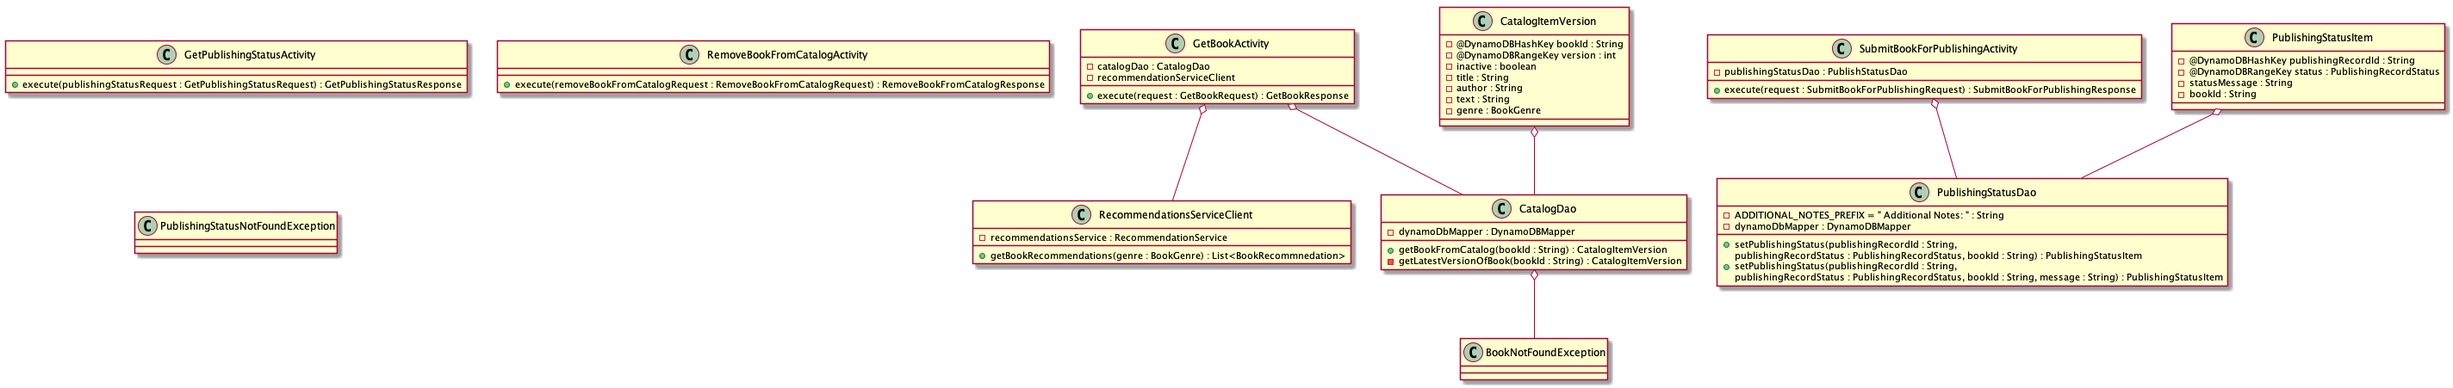
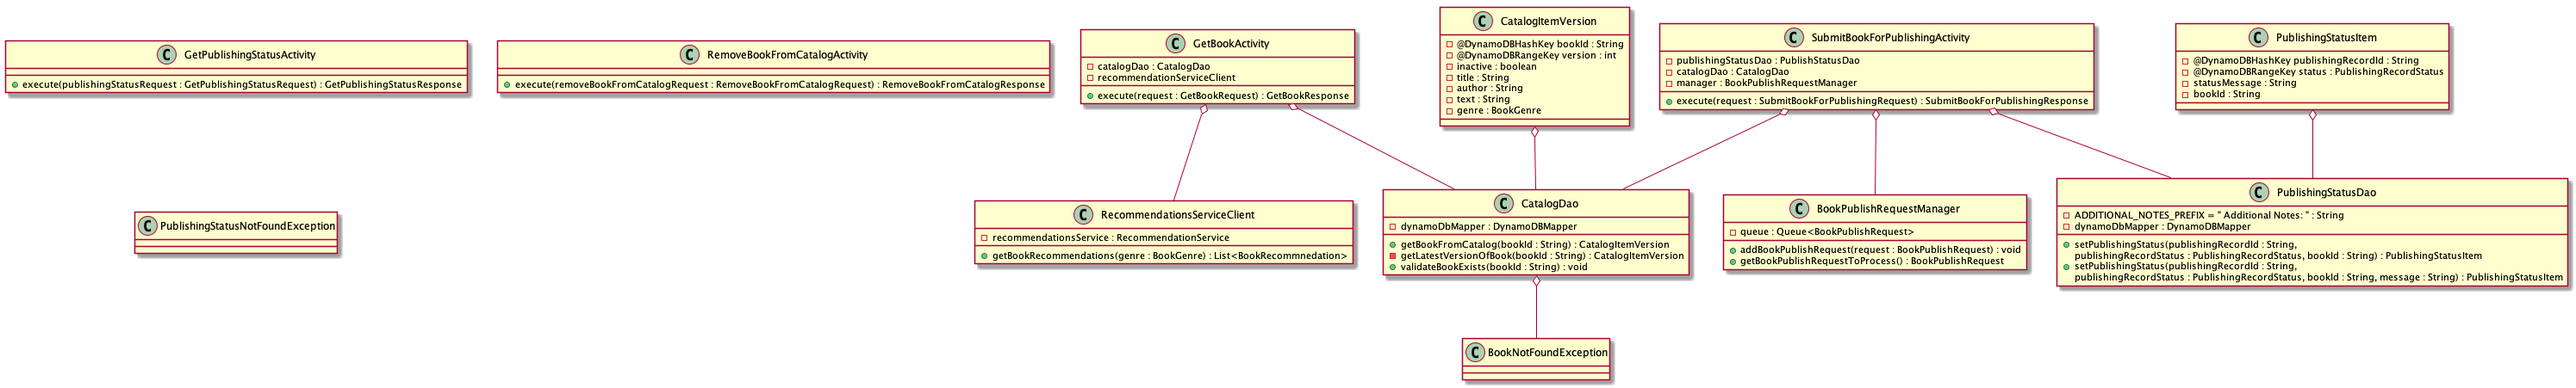
finished mastery task two

diff --git a/tst/com/amazon/ata/kindlepublishingservice/activity/SubmitBookForPublishingActivityTest.java b/tst/com/amazon/ata/kindlepublishingservice/activity/SubmitBookForPublishingActivityTest.java
@@ -1,5 +1,6 @@
 package com.amazon.ata.kindlepublishingservice.activity;
 
+import com.amazon.ata.kindlepublishingservice.publishing.BookPublishingRequestManager;
 import com.amazon.ata.recommendationsservice.types.BookGenre;
 import com.amazon.ata.kindlepublishingservice.models.requests.SubmitBookForPublishingRequest;
 import com.amazon.ata.kindlepublishingservice.models.response.SubmitBookForPublishingResponse;
@@ -14,17 +15,12 @@ import org.junit.jupiter.api.BeforeEach;
 import org.junit.jupiter.api.Test;
 import org.mockito.InjectMocks;
 import org.mockito.Mock;
+import org.mockito.MockitoAnnotations;
 
 import static org.junit.jupiter.api.Assertions.assertEquals;
 import static org.junit.jupiter.api.Assertions.assertThrows;
-import static org.mockito.ArgumentMatchers.anyString;
-import static org.mockito.ArgumentMatchers.eq;
-import static org.mockito.ArgumentMatchers.isA;
-import static org.mockito.ArgumentMatchers.isNull;
-import static org.mockito.Mockito.doThrow;
-import static org.mockito.Mockito.verify;
-import static org.mockito.Mockito.verifyZeroInteractions;
-import static org.mockito.Mockito.when;
+import static org.mockito.ArgumentMatchers.*;
+import static org.mockito.Mockito.*;
 import static org.mockito.MockitoAnnotations.initMocks;
 
 public class SubmitBookForPublishingActivityTest {
@@ -32,12 +28,18 @@ public class SubmitBookForPublishingActivityTest {
     @Mock
     private PublishingStatusDao publishingStatusDao;
 
+    @Mock
+    private CatalogDao catalogDao;
+
+    @Mock
+    private BookPublishingRequestManager manager;
+
     @InjectMocks
     private SubmitBookForPublishingActivity activity;
 
     @BeforeEach
     public void setup() {
-        initMocks(this);
+        MockitoAnnotations.openMocks(this);
     }
 
     @Test
@@ -61,6 +63,7 @@ public class SubmitBookForPublishingActivityTest {
         SubmitBookForPublishingResponse response = activity.execute(request);
 
         // THEN
+        verify(catalogDao).validateBookExists(request.getBookId());
         assertEquals("publishing.123", response.getPublishingRecordId(), "Expected response to return a publishing" +
                 "record id.");
     }
@@ -84,7 +87,56 @@ public class SubmitBookForPublishingActivityTest {
         SubmitBookForPublishingResponse response = activity.execute(request);
 
         // THEN
+        verify(catalogDao, never()).validateBookExists(anyString());
         assertEquals("publishing.123", response.getPublishingRecordId(), "Expected response to return a publishing" +
                 "record id.");
+    }
+
+    @Test
+    public void execute_validBookIdButInactive_bookQueuedForPublishing() {
+        // GIVEN
+        SubmitBookForPublishingRequest request = SubmitBookForPublishingRequest.builder()
+                .withAuthor("Author")
+                .withTitle("Title")
+                .withBookId("book.456")
+                .withGenre(BookGenre.FANTASY.name())
+                .build();
+
+        PublishingStatusItem item = new PublishingStatusItem();
+        item.setPublishingRecordId("publishing.123");
+        when(publishingStatusDao.setPublishingStatus(anyString(),
+                eq(PublishingRecordStatus.QUEUED),
+                eq(request.getBookId()))).thenReturn(item);
+
+        // WHEN
+        SubmitBookForPublishingResponse response = activity.execute(request);
+
+        // THEN
+        verify(catalogDao, only()).validateBookExists(request.getBookId());
+        assertEquals("publishing.123", response.getPublishingRecordId(), "Expected response to return a publishing" +
+                "record id.");
+
+    }
+
+    @Test
+    public void execute_inValidBookId_throwsBookNotFoundException() {
+        // GIVEN
+        SubmitBookForPublishingRequest request = SubmitBookForPublishingRequest.builder()
+                .withAuthor("Author")
+                .withTitle("Title")
+                .withBookId("invalid")
+                .withGenre(BookGenre.FANTASY.name())
+                .build();
+
+        PublishingStatusItem item = new PublishingStatusItem();
+        item.setPublishingRecordId("publishing.123");
+        doThrow(BookNotFoundException.class).when(catalogDao).validateBookExists(request.getBookId());
+        when(publishingStatusDao.setPublishingStatus(anyString(),
+                eq(PublishingRecordStatus.QUEUED),
+                eq(request.getBookId()))).thenReturn(item);
+
+        // THEN // WHEN
+        assertThrows(BookNotFoundException.class, () -> activity.execute(request));
+
     }
 }

diff --git a/src/com/amazon/ata/kindlepublishingservice/activity/SubmitBookForPublishingActivity.java b/src/com/amazon/ata/kindlepublishingservice/activity/SubmitBookForPublishingActivity.java
@@ -9,6 +9,8 @@ import com.amazon.ata.kindlepublishingservice.dynamodb.models.PublishingStatusIt
 import com.amazon.ata.kindlepublishingservice.enums.PublishingRecordStatus;
 import com.amazon.ata.kindlepublishingservice.publishing.BookPublishRequest;
 
+import com.amazon.ata.kindlepublishingservice.publishing.BookPublishingRequestManager;
+import com.amazon.ata.kindlepublishingservice.utils.KindlePublishingUtils;
 import com.amazonaws.services.lambda.runtime.Context;
 import com.amazonaws.services.lambda.runtime.RequestHandler;
 import org.apache.commons.lang3.StringUtils;
@@ -24,6 +26,8 @@ import javax.inject.Inject;
 public class SubmitBookForPublishingActivity {
 
     private PublishingStatusDao publishingStatusDao;
+    private CatalogDao catalogDao;
+    private BookPublishingRequestManager manager;
 
     /**
      * Instantiates a new SubmitBookForPublishingActivity object.
@@ -31,8 +35,10 @@ public class SubmitBookForPublishingActivity {
      * @param publishingStatusDao PublishingStatusDao to access the publishing status table.
      */
     @Inject
-    public SubmitBookForPublishingActivity(PublishingStatusDao publishingStatusDao) {
+    public SubmitBookForPublishingActivity(PublishingStatusDao publishingStatusDao, CatalogDao catalogDao, BookPublishingRequestManager manager) {
         this.publishingStatusDao = publishingStatusDao;
+        this.catalogDao = catalogDao;
+        this.manager = manager;
     }
 
     /**
@@ -47,8 +53,12 @@ public class SubmitBookForPublishingActivity {
     public SubmitBookForPublishingResponse execute(SubmitBookForPublishingRequest request) {
         final BookPublishRequest bookPublishRequest = BookPublishRequestConverter.toBookPublishRequest(request);
 
-        // TODO: If there is a book ID in the request, validate it exists in our catalog
-        // TODO: Submit the BookPublishRequest for processing
+        // DONE: If there is a book ID in the request, validate it exists in our catalog
+        if (bookPublishRequest.getBookId() != null) {
+            catalogDao.validateBookExists(bookPublishRequest.getBookId());
+        }
+        // DONE: Submit the BookPublishRequest for processing
+        manager.addBookPublishRequest(bookPublishRequest);
 
         PublishingStatusItem item =  publishingStatusDao.setPublishingStatus(bookPublishRequest.getPublishingRecordId(),
                 PublishingRecordStatus.QUEUED,

diff --git a/src/com/amazon/ata/kindlepublishingservice/dao/CatalogDao.java b/src/com/amazon/ata/kindlepublishingservice/dao/CatalogDao.java
@@ -2,12 +2,9 @@ package com.amazon.ata.kindlepublishingservice.dao;
 
 import com.amazon.ata.kindlepublishingservice.dynamodb.models.CatalogItemVersion;
 import com.amazon.ata.kindlepublishingservice.exceptions.BookNotFoundException;
-import com.amazon.ata.kindlepublishingservice.publishing.KindleFormattedBook;
-import com.amazon.ata.kindlepublishingservice.utils.KindlePublishingUtils;
 
 import com.amazonaws.services.dynamodbv2.datamodeling.DynamoDBMapper;
 import com.amazonaws.services.dynamodbv2.datamodeling.DynamoDBQueryExpression;
-import org.apache.commons.lang3.StringUtils;
 
 import java.util.List;
 import javax.inject.Inject;
@@ -69,5 +66,13 @@ public class CatalogDao {
             return null;
         }
         return results.get(0);
+    }
+
+    public void validateBookExists(String bookId) {
+        CatalogItemVersion book = getLatestVersionOfBook(bookId);
+
+        if (book == null) {
+            throw new BookNotFoundException(String.format("No book found for id: %s", bookId));
+        }
     }
 }

diff --git a/src/com/amazon/ata/kindlepublishingservice/dagger/PublishingModule.java b/src/com/amazon/ata/kindlepublishingservice/dagger/PublishingModule.java
@@ -2,6 +2,7 @@ package com.amazon.ata.kindlepublishingservice.dagger;
 
 import com.amazon.ata.kindlepublishingservice.publishing.BookPublisher;
 
+import com.amazon.ata.kindlepublishingservice.publishing.BookPublishingRequestManager;
 import com.amazon.ata.kindlepublishingservice.publishing.NoOpTask;
 import dagger.Module;
 import dagger.Provides;
@@ -24,4 +25,8 @@ public class PublishingModule {
     public ScheduledExecutorService provideBookPublisherScheduler() {
         return Executors.newScheduledThreadPool(1);
     }
+
+    @Provides
+    @Singleton
+    public BookPublishingRequestManager provideBookPublishingRequestManager() { return new BookPublishingRequestManager(); }
 }

diff --git a/src/com/amazon/ata/kindlepublishingservice/publishing/BookPublishingRequestManager.java b/src/com/amazon/ata/kindlepublishingservice/publishing/BookPublishingRequestManager.java
@@ -1,0 +1,26 @@
+package com.amazon.ata.kindlepublishingservice.publishing;
+
+import java.util.LinkedList;
+import java.util.Queue;
+
+public class BookPublishingRequestManager {
+
+    private Queue<BookPublishRequest> queue;
+
+    public BookPublishingRequestManager() {
+        queue = new LinkedList<>();
+    }
+
+    public boolean addBookPublishRequest(BookPublishRequest request) {
+        try {
+            queue.add(request);
+            return true;
+        } catch (Exception e) {
+            return false;
+        }
+    }
+
+    public BookPublishRequest getBookPublishRequestToProcess() {
+        return queue.poll();
+    }
+}
